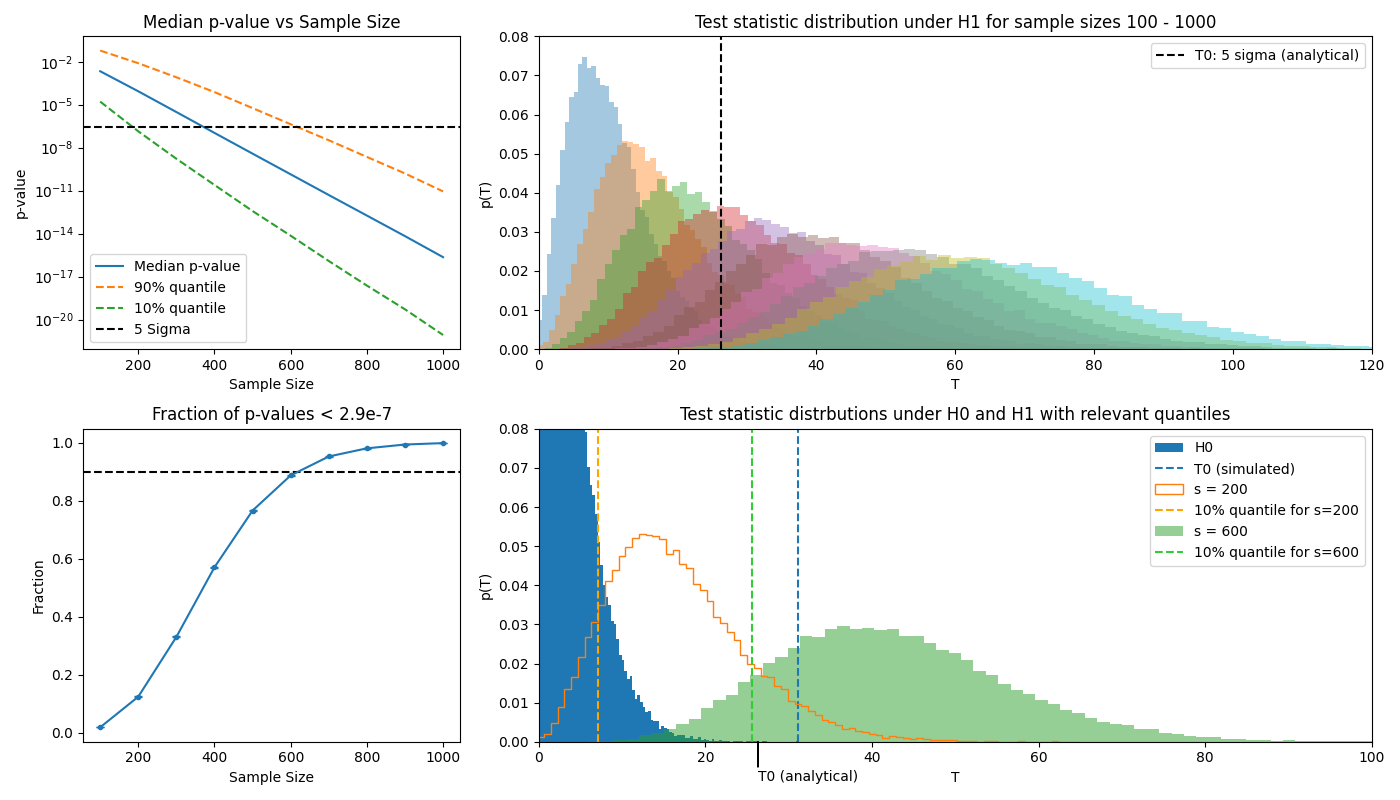
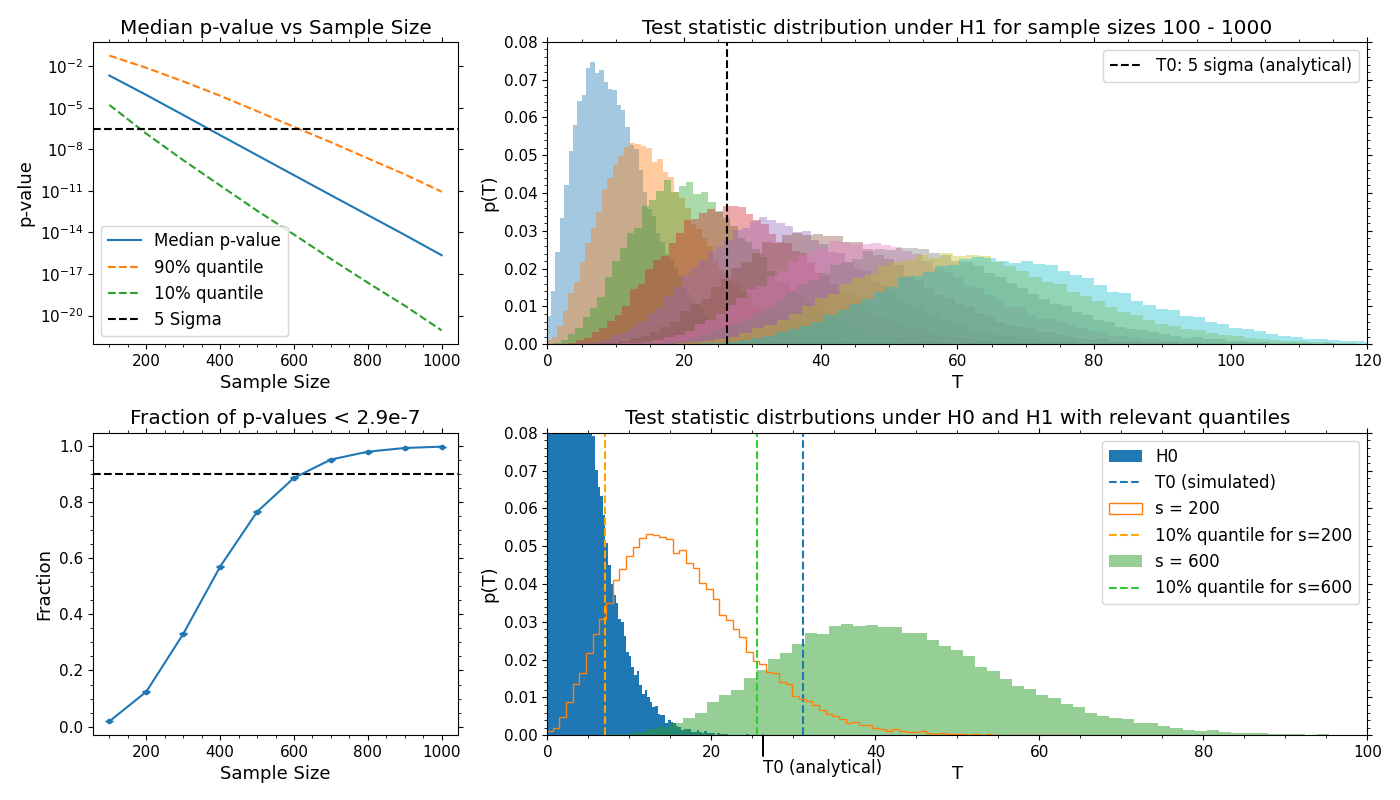
use matplotlib style

diff --git a/src/solve_part_f.py b/src/solve_part_f.py
@@ -7,6 +7,7 @@ from tqdm import tqdm
 from scipy.stats import chi2
 import matplotlib.gridspec as gs
 import pickle
+plt.style.use('src/utils/mphil.mplstyle')
 
 # set random seed
 np.random.seed(0)
@@ -112,16 +113,16 @@ def simulation_study(sample_sizes, repeats, H0=False):
 sample_sizes = np.linspace(100, 1000, 10, dtype=int)
 
 # run simulation study
-sim = simulation_study(sample_sizes, repeats=50000)
+#sim = simulation_study(sample_sizes, repeats=50000)
 
 # run for H0 at a single sample size for plotting T0
-H0_sim = simulation_study([1000], repeats=50000, H0=True)
+#H0_sim = simulation_study([1000], repeats=50000, H0=True)
 
 # save results
-with open("results/part_f_results_binned.pkl", "wb") as f: pickle.dump([sim, H0_sim], f)
+#with open("results/part_f_results_binned.pkl", "wb") as f: pickle.dump([sim, H0_sim], f)
 
 # load results
-#with open('results/part_f_results.pkl', 'rb') as f: sim, H0_sim = pickle.load(f)
+with open('results/part_f_results_binned.pkl', 'rb') as f: sim, H0_sim = pickle.load(f)
 
 
 # *************************************************************************************************************
@@ -200,6 +201,6 @@ ax4.legend()
 plt.tight_layout()
 
 # save figure
-plt.savefig("results/part_f_results.png")
+plt.savefig("results/part_f_results_binned.png")
 
 plt.show()
